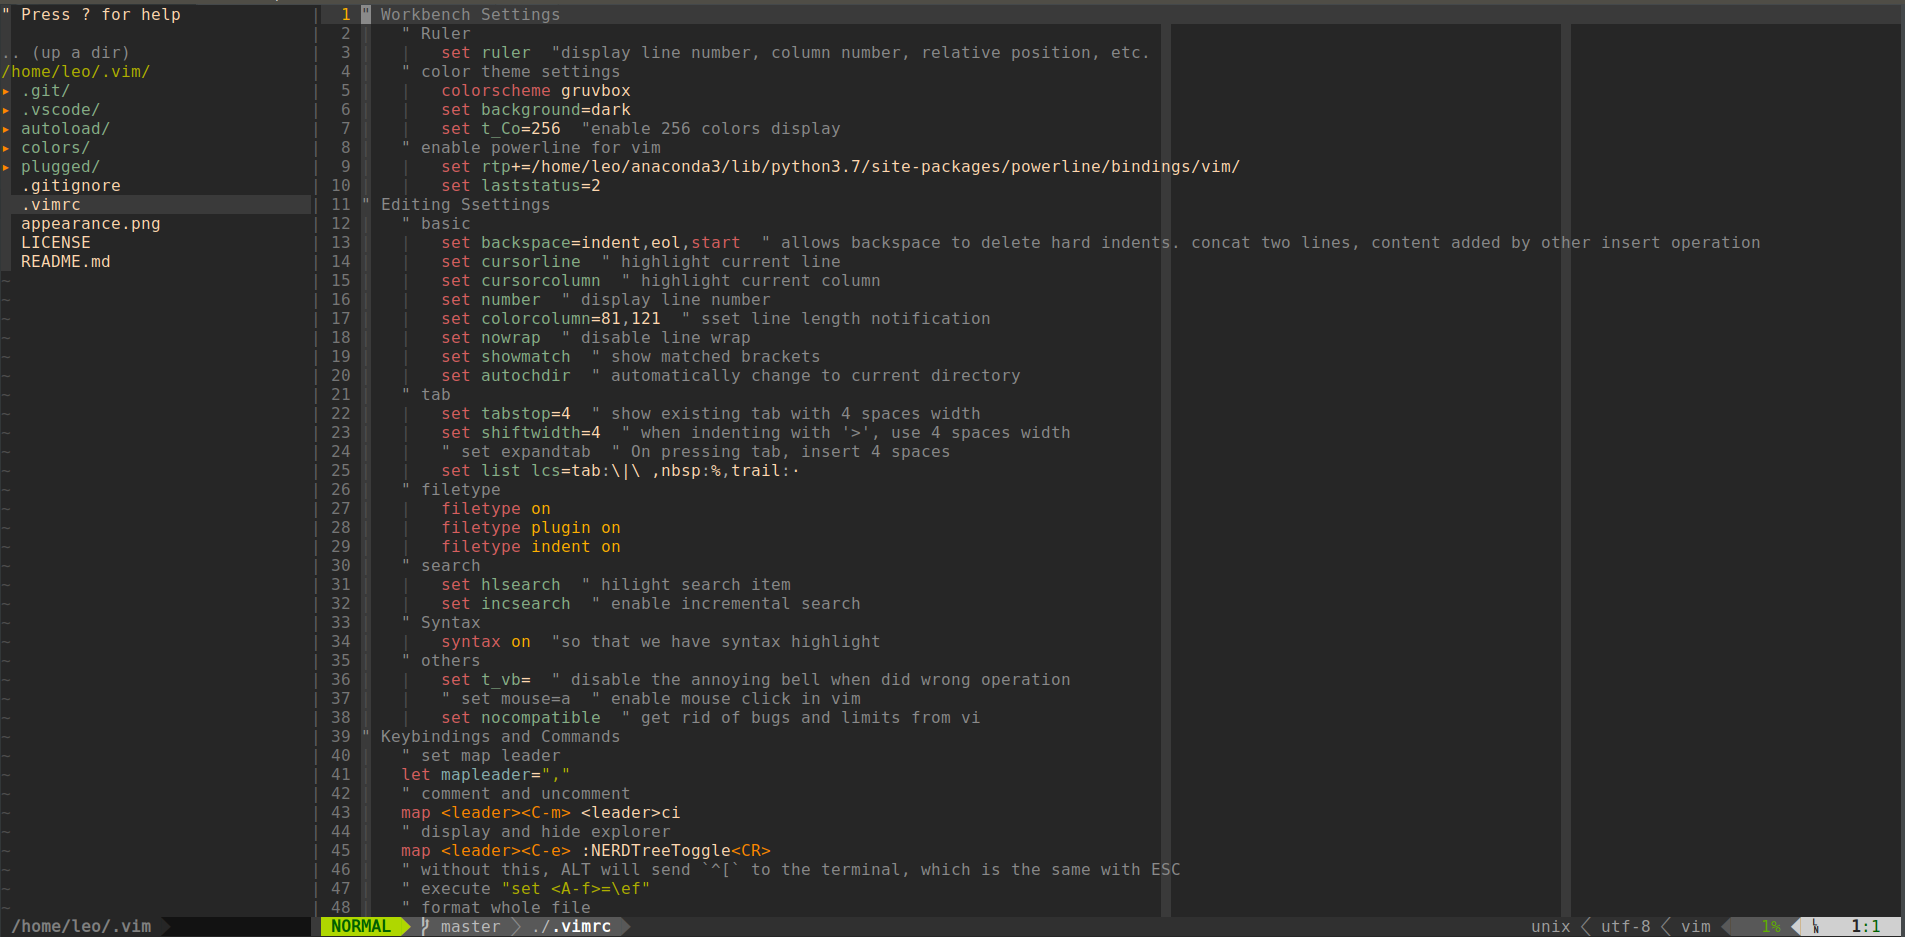
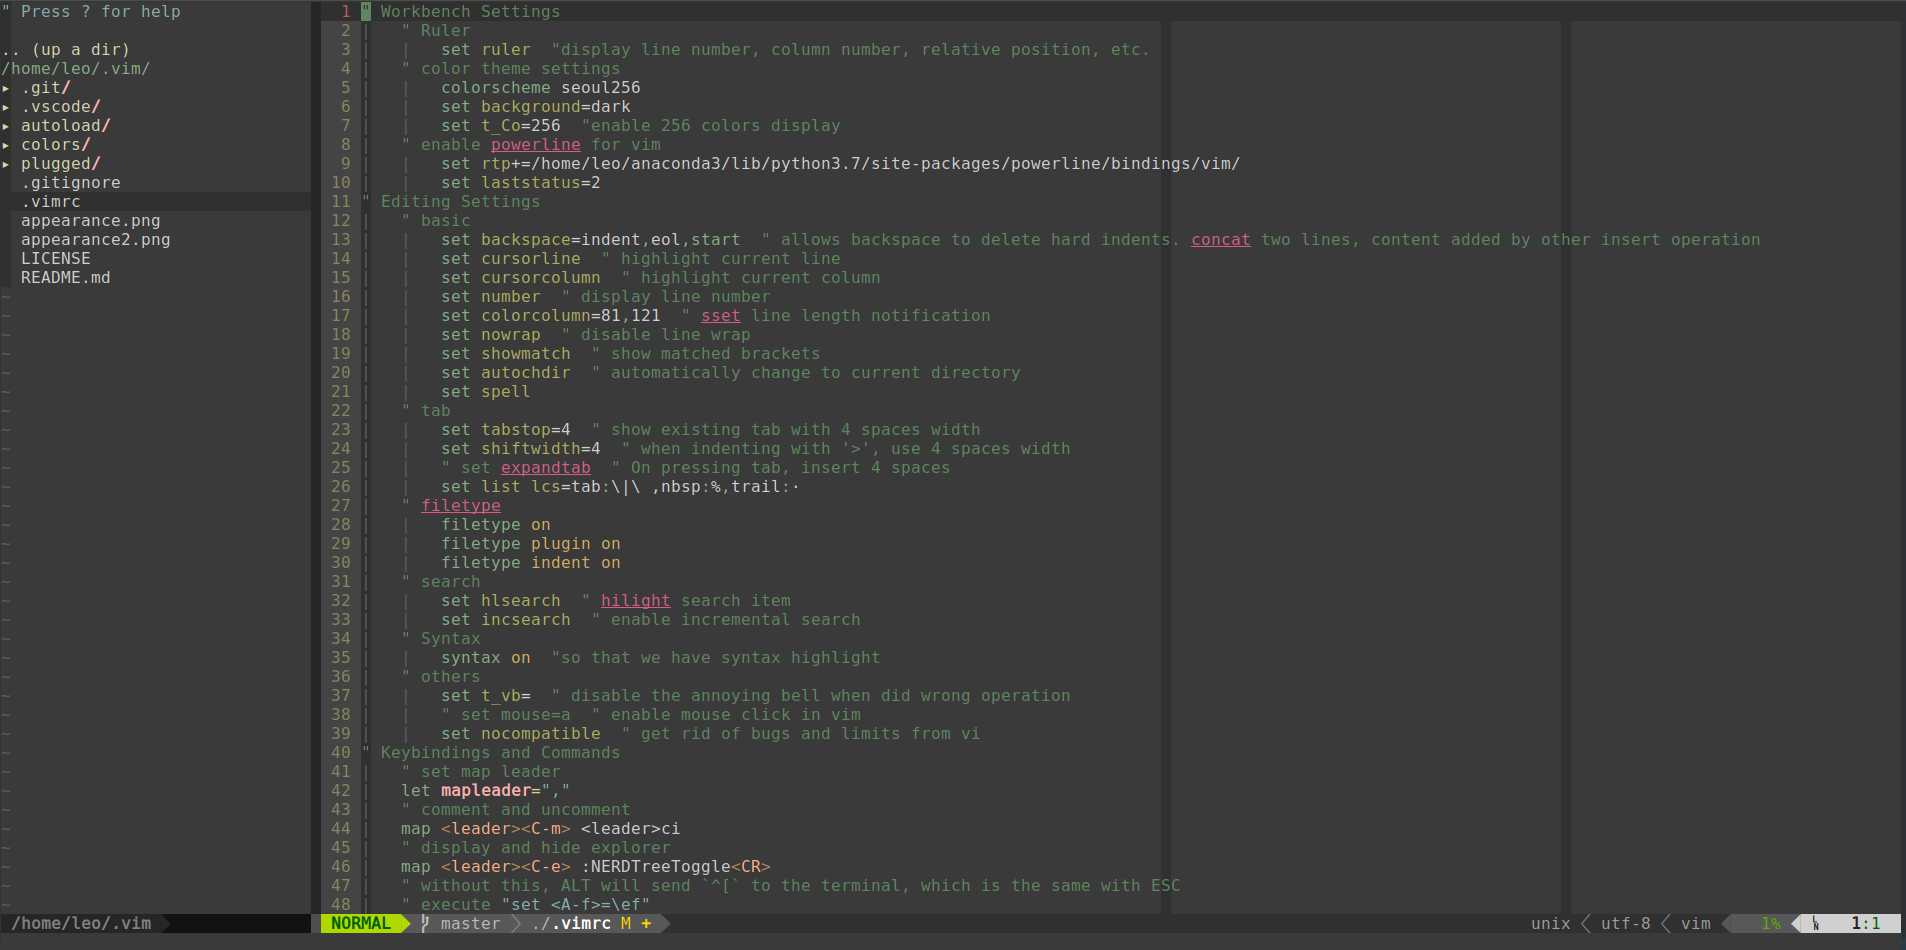
update a few keybindings

diff --git a/README.md b/README.md
@@ -15,7 +15,9 @@ Here is my vim recipe and some note about vim.
 
 It looks like this👇
 
-![](appearance.png)
+![Normal mode](appearance.png)
+
+![Insert mode](appearance2.png)
 
 ## Pre-Requirement
 
@@ -77,6 +79,7 @@ No I don't use Mac 😁
 |Open File and Split Window Vertically| Ctrl , v|
 |Toggle Treminal| Ctrl t|
 |Write with Sudo| Ctrl , w|
+|Fold and Unfold Code| space|
 
 ## Plugin List
 
@@ -85,5 +88,6 @@ plugins are installed by [vim-plug](https://github.com/junegunn/vim-plug).
 - [NERDTree](https://github.com/scrooloose/nerdtree)
 - [NERD Commenter](https://github.com/scrooloose/nerdcommenter)
 - [Auto Pairs](https://github.com/jiangmiao/auto-pairs)
+- [indentLine](https://github.com/Yggdroot/indentLine)
 - [vim-wakatime](https://github.com/wakatime/vim-wakatime)
 - [YouCompleteMe](https://github.com/ycm-core/YouCompleteMe)
